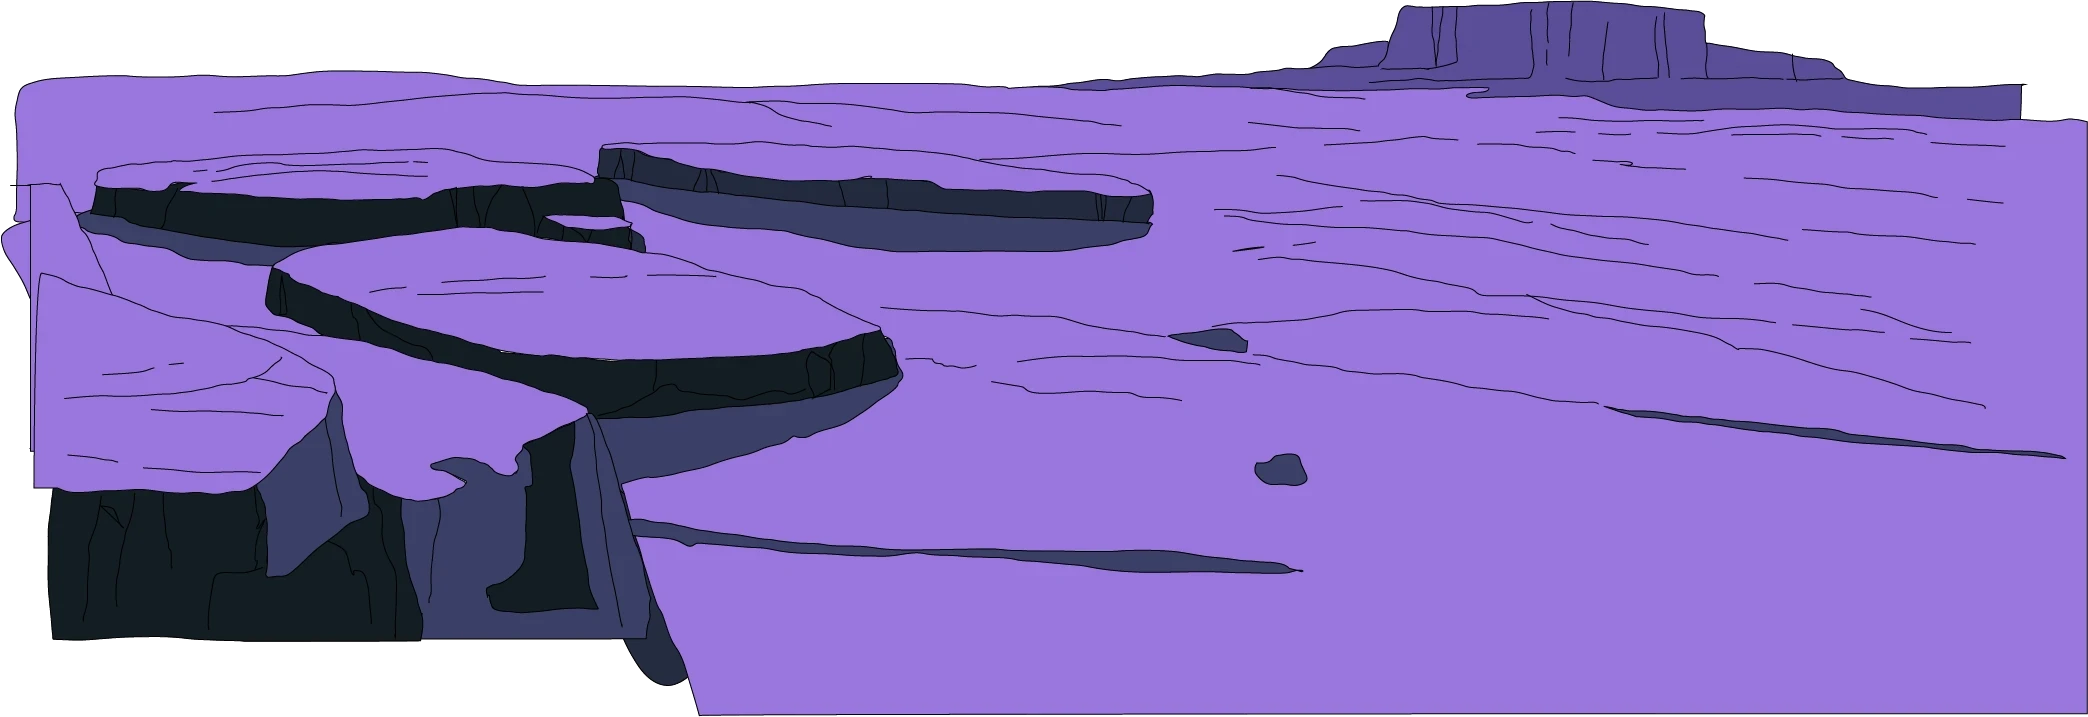
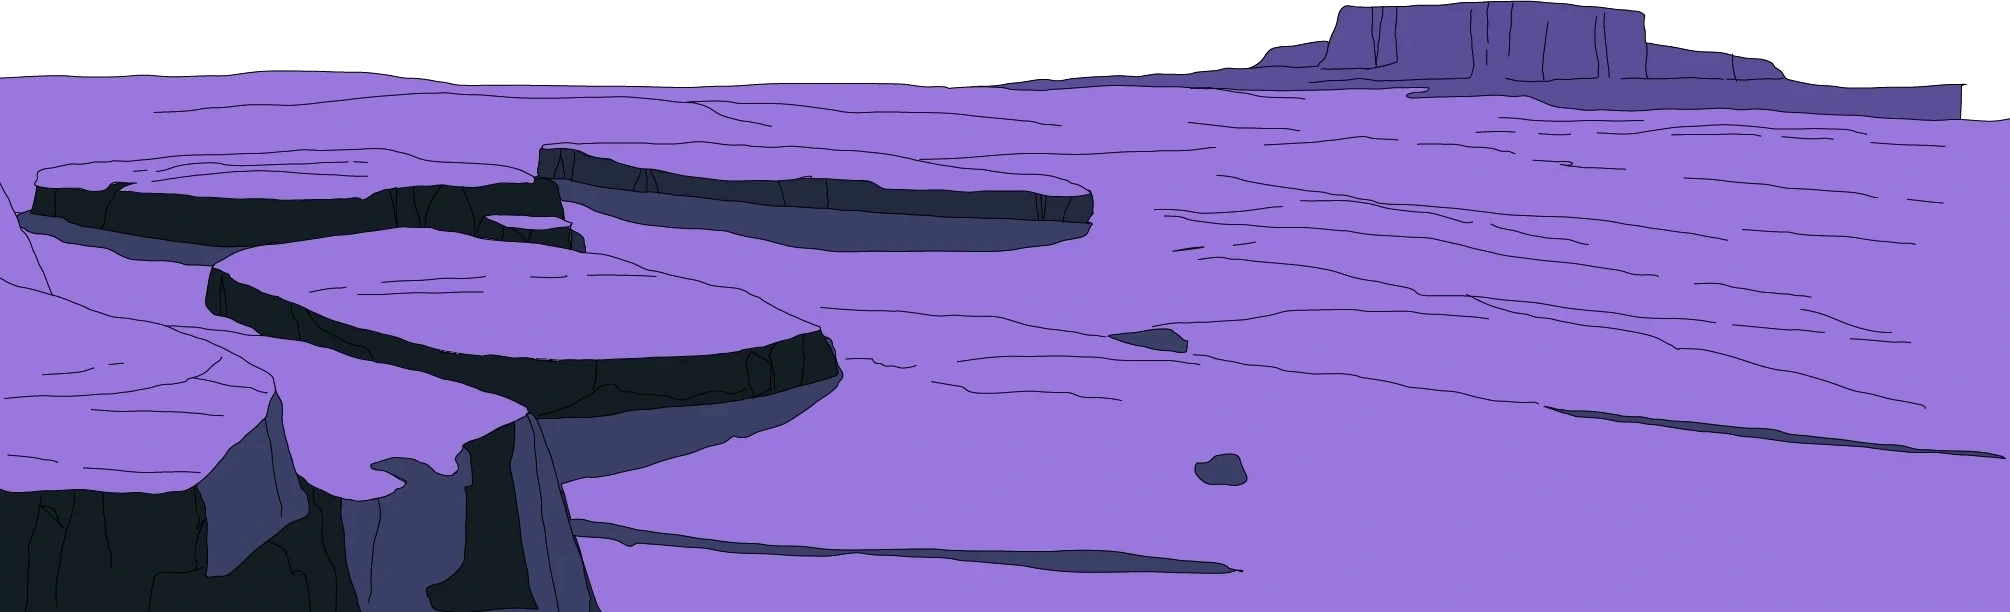
Smaller sun with a diffuse glow, floating rocks, Learn more buttons, more air between sections
- Sun disc is smaller, warm white, with a wide gaussian glow (brighter and wider on the mission)
- Rocks float with a visible bob
- Learn more buttons: arrow at rest, label unfolds and text rises on hover
- Scene to services: corners round only, no shrinking, no dimming
- More space between services, venture card, stories and testimonial
- Scrollbar hidden; contact card has no noise; contact floor bottom is finished

Claude-Session: https://claude.ai/code/session_01WyWtLkS7WfgVKMmiB4tAwe

diff --git a/assets/css/site.css b/assets/css/site.css
@@ -26,7 +26,9 @@
   --ease-io:cubic-bezier(.65,0,.35,1);
 }
 *{box-sizing:border-box;margin:0;padding:0}
-html{background:var(--bg)}
+html{background:var(--bg);scrollbar-width:none}
+html::-webkit-scrollbar,body::-webkit-scrollbar{display:none;width:0;height:0}
+body{-ms-overflow-style:none}
 body{font-family:"Geist",system-ui,sans-serif;font-weight:400;color:var(--text);background:var(--bg);-webkit-font-smoothing:antialiased;overflow-x:hidden}
 body.locked{overflow:hidden;height:100vh}
 a{color:inherit;text-decoration:none}
@@ -53,7 +55,17 @@ img{display:block;max-width:none;user-select:none;-webkit-user-drag:none}
 .btn.boxed .arr{width:30px;height:30px;border-radius:3px}
 .arrow-chip{width:30px;height:30px;display:grid;place-items:center;background:#fff;color:var(--ink);border-radius:2px;transition:transform .4s var(--ease),background .3s}
 .arrow-chip:hover{transform:translateX(4px);background:var(--lilac)}
-.arrow-chip svg,.btn .arr svg{width:16px;height:16px}
+.arrow-chip svg,.btn .arr svg,.more svg{width:16px;height:16px}
+.more{display:inline-flex;align-items:stretch;height:32px;color:var(--ink)}
+.more-arr{width:32px;display:grid;place-items:center;background:#fff;border-radius:2px;transition:background .25s}
+.more-lbl{width:0;margin-right:0;overflow:hidden;background:var(--lilac);border-radius:2px;display:flex;align-items:center;
+  clip-path:inset(55% 0 0 0);transition:width .45s var(--ease) .05s,margin .45s var(--ease) .05s,clip-path .35s var(--ease) .05s}
+.more-lbl span{display:block;padding:0 14px;white-space:nowrap;font-family:"Nohemi";font-weight:500;font-size:12px;letter-spacing:.12em;text-transform:uppercase;transform:translateY(120%);transition:transform .4s var(--ease) .12s}
+.more:hover .more-arr,.more:focus-visible .more-arr{background:var(--lilac)}
+.more:hover .more-lbl,.more:focus-visible .more-lbl{width:122px;margin-right:3px;clip-path:inset(0 0 0 0)}
+.more:hover .more-lbl span,.more:focus-visible .more-lbl span{transform:none}
+.more:not(:hover):not(:focus-visible) .more-lbl span{transition-delay:0s}
+.more:not(:hover):not(:focus-visible) .more-lbl{transition-delay:.12s}
 
 /* ---------- header ---------- */
 .nav{position:fixed;top:0;left:0;right:0;z-index:60;display:flex;align-items:center;justify-content:space-between;padding:23px 36px;pointer-events:none}
@@ -88,10 +100,10 @@ img{display:block;max-width:none;user-select:none;-webkit-user-drag:none}
 #sun3d{position:absolute;inset:0;width:100%;height:100%;pointer-events:none}
 /* design frame (2847×1618 reference), always covers the width, sits on the bottom edge */
 .frame{position:absolute;left:50%;bottom:0;width:max(100vw,175.96vh);aspect-ratio:2847/1618;transform:translateX(-50%)}
-.bob{animation:bob 7s ease-in-out infinite}
-.bob.b2{animation-duration:9s;animation-delay:-3s}
-.bob.b3{animation-duration:11s;animation-delay:-6s}
-@keyframes bob{0%,100%{transform:translateY(0) rotate(0)}50%{transform:translateY(-5%) rotate(1deg)}}
+.bob{animation:bob 6s ease-in-out infinite}
+.bob.b2{animation-duration:7.5s;animation-delay:-3s;animation-direction:reverse}
+.bob.b3{animation-duration:8.5s;animation-delay:-5s}
+@keyframes bob{0%,100%{transform:translate3d(0,0,0) rotate(0)}50%{transform:translate3d(0,-2.4vh,0) rotate(1.6deg)}}
 
 .hero-ui{position:absolute;inset:0;z-index:10;pointer-events:none}
 .hero-title{position:absolute;left:50%;top:41.3%;transform:translateX(-50%);width:min(980px,92vw);text-align:center;transition:opacity .7s var(--ease),transform 1.1s var(--ease)}
@@ -143,12 +155,11 @@ img{display:block;max-width:none;user-select:none;-webkit-user-drag:none}
 .card-art{position:relative}
 .card-art img{width:200px;height:auto}
 .card-art img.wide{width:96%}
-.card .arrow-chip,.card .arrow-chip:hover{transform:none;background:#fff;transition:none}
 .card-body p{padding:20px 10px 0;font-size:15px;line-height:1.4;min-height:110px}
-.card-body .arrow-chip{margin:20px 10px 10px}
+.card-body .more{margin:20px 10px 10px;align-self:flex-start}
 
 /* venture card with the 3D atom */
-.venture{padding-top:clamp(40px,4vw,56px)}
+.venture{padding-top:clamp(110px,11vw,170px)}
 .venture-card{position:relative;background:var(--panel);border-radius:22px;padding:50px 50px 46px;min-height:366px;display:grid;grid-template-columns:minmax(0,522px) 1fr;overflow:hidden;isolation:isolate}
 .venture-card > div{position:relative;z-index:1}
 .venture-card .body-l{margin-top:12px;max-width:522px}
@@ -156,7 +167,7 @@ img{display:block;max-width:none;user-select:none;-webkit-user-drag:none}
 #atom3d{position:absolute;right:-23%;top:0;width:60%;height:100%;pointer-events:none}
 
 /* success stories */
-.stories{padding-top:clamp(80px,8vw,120px)}
+.stories{padding-top:clamp(120px,12vw,180px)}
 .stories-head{display:flex;justify-content:space-between;gap:40px}
 .stories-head .body-l{max-width:381px}
 .stories-grid{display:grid;grid-template-columns:1fr 1fr;column-gap:clamp(24px,3vw,44px);row-gap:0;margin-top:clamp(40px,4.5vw,64px)}
@@ -170,10 +181,10 @@ img{display:block;max-width:none;user-select:none;-webkit-user-drag:none}
 .story-media .ly-full{inset:-10% 0;width:100%;height:120%;object-fit:cover}
 .story-media .ph{position:absolute;right:7%;top:50%;transform:translateY(-50%);font-family:"Nohemi";font-size:13px;letter-spacing:.18em;color:var(--faint);border:1px dashed var(--line);padding:16px 20px;border-radius:3px}
 .story p{margin-top:16px;font-size:15px;line-height:1.4;max-width:560px}
-.story .arrow-chip{margin-top:16px}
+.story .more{margin-top:16px}
 
 /* testimonial */
-.quote-wrap{margin-top:clamp(60px,6vw,90px);border-top:1px solid var(--line-soft);border-bottom:1px solid var(--line-soft)}
+.quote-wrap{margin-top:clamp(110px,11vw,170px);border-top:1px solid var(--line-soft);border-bottom:1px solid var(--line-soft)}
 .quote{max-width:1440px;margin:0 auto;display:grid;grid-template-columns:1fr 1fr;border-left:1px solid var(--line-soft);border-right:1px solid var(--line-soft);width:calc(100% - 2*var(--pad))}
 .quote > div{padding:110px 20px 108px;border-right:1px solid var(--line-soft)}
 .quote > div:last-child{border-right:0;position:relative;overflow:hidden}
@@ -184,14 +195,17 @@ img{display:block;max-width:none;user-select:none;-webkit-user-drag:none}
   repeating-linear-gradient(90deg,var(--line-soft) 0 1px,transparent 1px 48px),
   repeating-linear-gradient(0deg,var(--line-soft) 0 1px,transparent 1px 48px);opacity:.5;mask-image:radial-gradient(circle at 50% 50%,#000,transparent 70%)}
 .quote-art img{position:absolute;left:50%;top:50%;width:90px;transform:translate(-50%,-50%);opacity:.9}
-.stack-end{height:clamp(90px,8vw,120px)}
+.stack-end{height:clamp(110px,10vw,150px)}
 
 /* contact (revealed underneath the stack) */
 .contact{position:relative;z-index:2;margin-top:-28vh;padding-top:calc(28vh + 60px);overflow:hidden;
   background:linear-gradient(#252F4C 0%,#584C79 31.7%,#6F588E 49.8%,#A376C0 69.5%,#A376C0 100%)}
+.contact::before{content:"";position:absolute;inset:0;background:url("../img/grain.png") 0 0/200px 200px;opacity:.07;pointer-events:none;z-index:0}
 .contact-card{position:relative;z-index:1;width:min(812px,92vw);margin:0 auto;background:var(--panel);padding:40px 40px 150px}
 /* the canyon floor sits IN FRONT of the card: the card's bottom edge disappears behind the horizon */
-.contact-floor{position:relative;z-index:3;display:block;width:max(108vw,1540px);margin:-170px 0 -1px 50%;transform:translateX(-50%);pointer-events:none;will-change:transform}
+.contact-floor{position:relative;z-index:3;width:max(108vw,1540px);margin:-170px 0 -1px 50%;transform:translateX(-50%);pointer-events:none;will-change:transform}
+.contact-floor img{display:block;width:100%;height:auto}
+.contact-floor.noise::after{-webkit-mask:url("../img/contact-floor.webp") 0 0/100% 100% no-repeat;mask:url("../img/contact-floor.webp") 0 0/100% 100% no-repeat}
 .contact-card h2{margin-bottom:12px}
 .contact-card .lead{font-weight:300;font-size:15px}
 .contact-card .lead b{font-weight:600}

diff --git a/index.html b/index.html
@@ -94,7 +94,7 @@
         <div class="card-body">
           <div class="card-art noise"><img src="assets/img/card-marketing.webp" alt="Megaphone illustration"></div>
           <p>We help organizations explain what they're building, why it matters, and how it creates value.</p>
-          <a class="arrow-chip" href="#contact" data-jump aria-label="Ask about marketing and communications"><svg viewBox="0 0 16 16" fill="none" stroke="currentColor" stroke-width="1.6"><path d="M2 8h11M9 4l4 4-4 4"/></svg></a>
+          <a class="more" href="#contact" data-jump aria-label="Ask about marketing and communications"><span class="more-lbl"><span>Learn more</span></span><span class="more-arr"><svg viewBox="0 0 16 16" fill="none" stroke="currentColor" stroke-width="1.6"><path d="M2 8h11M9 4l4 4-4 4"/></svg></span></a>
         </div>
       </article>
       <article class="card fade" style="transition-delay:.12s">
@@ -102,7 +102,7 @@
         <div class="card-body">
           <div class="card-art noise"><img class="wide" src="assets/img/card-engineering.svg" alt="Cube illustration: code, AI network and interface wireframe"></div>
           <p>We design and build AI-enabled tools and digital solutions that you can use or sell.</p>
-          <a class="arrow-chip" href="#contact" data-jump aria-label="Ask about engineering and development"><svg viewBox="0 0 16 16" fill="none" stroke="currentColor" stroke-width="1.6"><path d="M2 8h11M9 4l4 4-4 4"/></svg></a>
+          <a class="more" href="#contact" data-jump aria-label="Ask about engineering and development"><span class="more-lbl"><span>Learn more</span></span><span class="more-arr"><svg viewBox="0 0 16 16" fill="none" stroke="currentColor" stroke-width="1.6"><path d="M2 8h11M9 4l4 4-4 4"/></svg></span></a>
         </div>
       </article>
       <article class="card fade" style="transition-delay:.24s">
@@ -110,7 +110,7 @@
         <div class="card-body">
           <div class="card-art noise"><img src="assets/img/card-gtm.webp" alt="Crystal in orbit illustration"></div>
           <p>We help organizations move ideas from concept to revenue generation by aligning strategy, funding, partnerships, and execution.</p>
-          <a class="arrow-chip" href="#contact" data-jump aria-label="Ask about go-to-market"><svg viewBox="0 0 16 16" fill="none" stroke="currentColor" stroke-width="1.6"><path d="M2 8h11M9 4l4 4-4 4"/></svg></a>
+          <a class="more" href="#contact" data-jump aria-label="Ask about go-to-market"><span class="more-lbl"><span>Learn more</span></span><span class="more-arr"><svg viewBox="0 0 16 16" fill="none" stroke="currentColor" stroke-width="1.6"><path d="M2 8h11M9 4l4 4-4 4"/></svg></span></a>
         </div>
       </article>
     </div>
@@ -139,7 +139,7 @@
           <img class="ly ly-full" data-speed="0.10" src="assets/img/story-smartusa-cleanroom.webp" alt="Scientist holding a wafer, with the SMART USA logo">
         </div>
         <p>Instrumental in winning the federal award behind SMART USA, a $1B total funding package.</p>
-        <a class="arrow-chip" href="#contact" data-jump aria-label="More about SMART USA"><svg viewBox="0 0 16 16" fill="none" stroke="currentColor" stroke-width="1.6"><path d="M2 8h11M9 4l4 4-4 4"/></svg></a>
+        <a class="more" href="#contact" data-jump aria-label="More about SMART USA"><span class="more-lbl"><span>Learn more</span></span><span class="more-arr"><svg viewBox="0 0 16 16" fill="none" stroke="currentColor" stroke-width="1.6"><path d="M2 8h11M9 4l4 4-4 4"/></svg></span></a>
       </article>
       <article class="story fade" style="transition-delay:.12s">
         <div class="story-media noise" data-parallax>
@@ -148,7 +148,7 @@
           <img class="ly ly-logo" data-speed="-0.10" src="assets/img/logo-cymanii.webp" alt="CyManII">
         </div>
         <p>Helped win and stand up a national cybersecurity institute, securing $80M in DOE funding and $200M+ in private investment.</p>
-        <a class="arrow-chip" href="#contact" data-jump aria-label="More about CyManII"><svg viewBox="0 0 16 16" fill="none" stroke="currentColor" stroke-width="1.6"><path d="M2 8h11M9 4l4 4-4 4"/></svg></a>
+        <a class="more" href="#contact" data-jump aria-label="More about CyManII"><span class="more-lbl"><span>Learn more</span></span><span class="more-arr"><svg viewBox="0 0 16 16" fill="none" stroke="currentColor" stroke-width="1.6"><path d="M2 8h11M9 4l4 4-4 4"/></svg></span></a>
       </article>
       <article class="story fade">
         <div class="story-media noise" data-parallax>
@@ -157,7 +157,7 @@
           <img class="ly ly-logo smart" data-speed="-0.10" src="assets/img/logo-smartusa.webp" alt="SMART USA">
         </div>
         <p>Ran a first-of-a-kind semiconductor national conference, bringing together 130+ organizations.</p>
-        <a class="arrow-chip" href="#contact" data-jump aria-label="More about the conference"><svg viewBox="0 0 16 16" fill="none" stroke="currentColor" stroke-width="1.6"><path d="M2 8h11M9 4l4 4-4 4"/></svg></a>
+        <a class="more" href="#contact" data-jump aria-label="More about the conference"><span class="more-lbl"><span>Learn more</span></span><span class="more-arr"><svg viewBox="0 0 16 16" fill="none" stroke="currentColor" stroke-width="1.6"><path d="M2 8h11M9 4l4 4-4 4"/></svg></span></a>
       </article>
       <article class="story fade" style="transition-delay:.12s">
         <div class="story-media noise" data-parallax>
@@ -166,7 +166,7 @@
           <span class="ly ph" data-speed="-0.10">LOGO</span>
         </div>
         <p>Built and led a public–private research center, securing $18M+ in sustained funding.</p>
-        <a class="arrow-chip" href="#contact" data-jump aria-label="More about the research center"><svg viewBox="0 0 16 16" fill="none" stroke="currentColor" stroke-width="1.6"><path d="M2 8h11M9 4l4 4-4 4"/></svg></a>
+        <a class="more" href="#contact" data-jump aria-label="More about the research center"><span class="more-lbl"><span>Learn more</span></span><span class="more-arr"><svg viewBox="0 0 16 16" fill="none" stroke="currentColor" stroke-width="1.6"><path d="M2 8h11M9 4l4 4-4 4"/></svg></span></a>
       </article>
     </div>
   </section>
@@ -184,7 +184,7 @@
 </main>
 
 <!-- ================= CONTACT (revealed beneath the stack) ================= -->
-<section class="contact noise" id="contact">
+<section class="contact" id="contact">
   <div class="contact-card">
     <h2 class="h-l split">Make Contact</h2>
     <p class="lead fade">Have a question or a project? <b>Leave us a message.</b></p>
@@ -202,7 +202,7 @@
       </div>
     </form>
   </div>
-  <img class="contact-floor" id="contactFloor" src="assets/img/contact-floor.webp" alt="">
+  <div class="contact-floor noise" id="contactFloor"><img src="assets/img/contact-floor.webp" alt=""></div>
 </section>
 
 <footer class="footer">

diff --git a/assets/js/three-scenes.js b/assets/js/three-scenes.js
@@ -42,29 +42,25 @@ function dysonSun() {
   const rim = new THREE.DirectionalLight('#9C86F0', 0.55); rim.position.set(-0.6, 1, 0.8); scene.add(rim);
   const anchor = new THREE.Group(); scene.add(anchor);        // position + scale only
   const root = new THREE.Group(); anchor.add(root);            // the sun + rings (tilts with the cursor)
-  const sunLight = new THREE.PointLight('#FFF1E6', 4.2, 0, 0); root.add(sunLight);
+  const sunLight = new THREE.PointLight('#FFF1E6', 3.6, 0, 0); root.add(sunLight);
 
-  // very soft glow that starts at the disc's edge, so the edge stays readable
-  const glow = new THREE.Mesh(new THREE.PlaneGeometry(2.6, 2.6), new THREE.ShaderMaterial({
+  // a small bright sun with a wide, very diffuse glow (no visible edge to the glow)
+  const SUN_R = 0.2;
+  const glowMat = new THREE.ShaderMaterial({
     transparent: true, depthWrite: false, depthTest: false,
-    uniforms: { uColor: { value: new THREE.Color('#E4DCFF') }, uIn: { value: 0.44 }, uOut: { value: 1.25 }, uA: { value: 0.16 } },
+    uniforms: { uColor: { value: new THREE.Color('#EFE6FF') }, uR: { value: SUN_R }, uSpread: { value: 0.55 }, uA: { value: 0.5 } },
     vertexShader: 'varying vec2 vP; void main(){ vP = position.xy; gl_Position = projectionMatrix * modelViewMatrix * vec4(position,1.0); }',
-    fragmentShader: 'uniform vec3 uColor; uniform float uIn, uOut, uA; varying vec2 vP; void main(){ float d = length(vP); if (d < uIn) discard; float t = clamp((d - uIn) / (uOut - uIn), 0.0, 1.0); gl_FragColor = vec4(uColor, uA * pow(1.0 - t, 2.2)); }'
-  }));
+    // gaussian falloff from the disc edge, plus a fade to zero well before the plane's border
+    fragmentShader: 'uniform vec3 uColor; uniform float uR, uSpread, uA; varying vec2 vP; void main(){ float d = max(length(vP) - uR, 0.0); float g = exp(-(d*d)/(uSpread*uSpread)) * 0.75 + exp(-d/(uSpread*0.35)) * 0.25; g *= 1.0 - smoothstep(2.2, 3.0, length(vP)); gl_FragColor = vec4(uColor, uA * g); }'
+  });
+  const glow = new THREE.Mesh(new THREE.PlaneGeometry(6.2, 6.2), glowMat);
   glow.renderOrder = -5; anchor.add(glow);
 
-  // the sun disc: flat fill + ink edge (it always faces the camera)
-  const SUN_R = 0.44;
-  const disc = new THREE.Mesh(new THREE.CircleGeometry(SUN_R, 96), new THREE.MeshBasicMaterial({ color: '#F6F0FF', toneMapped: false }));
+  // the sun disc: a clean warm-white circle, always facing the camera
+  const disc = new THREE.Mesh(new THREE.CircleGeometry(SUN_R, 96), new THREE.MeshBasicMaterial({ color: '#FFFBF2', toneMapped: false }));
   root.add(disc);
-  const discShade = new THREE.Mesh(new THREE.CircleGeometry(SUN_R, 96, -0.2, Math.PI * 0.9), new THREE.MeshBasicMaterial({ color: '#E2D9FB', toneMapped: false }));
-  discShade.position.z = 0.001; root.add(discShade);
-  const edgeGeo = new LineSegmentsGeometry(); edgeGeo.setPositions(circlePts(SUN_R, 128));
-  const edgeMat = new LineMaterial({ color: '#0B0326', linewidth: 2 });
-  const edge = new LineSegments2(edgeGeo, edgeMat); edge.position.z = 0.002; root.add(edge);
-  const lineMats = [edgeMat];
-  // keep the disc facing the camera even when the rings tilt
-  const faceCam = [disc, discShade, edge];
+  const lineMats = [];
+  const faceCam = [disc];
 
   const RINGS = [
     { r: 1.00, h: 0.10, tilt: 22, roll:   0, spin:  0.16, segs: 4 },
@@ -138,6 +134,9 @@ function dysonSun() {
     const grow = 0.55 + 0.45 * (1 - Math.pow(1 - e, 3));
     solid.scale.setScalar(grow); dotted.scale.setScalar(0.65 + 0.35 * (1 - Math.pow(1 - e, 3)));
     solidMat.opacity = 0.55 * e; dotMat.opacity = 0.9 * e;
+    // on the mission the glow gets a little brighter and spreads wider
+    glowMat.uniforms.uA.value = 0.5 + 0.18 * m;
+    glowMat.uniforms.uSpread.value = 0.55 + 0.3 * m;
     halos.visible = e > 0.001;
     if (!reduce) dotted.rotation.z -= dt * 0.12;
     renderer.render(scene, camera);

diff --git a/assets/js/site.js b/assets/js/site.js
@@ -193,10 +193,8 @@ const FORM_ENDPOINT = "";
       PF.sun.x = lerp(x0, x1, m) - mx * 0.15 * 46; PF.sun.y = lerp(y0, y1, m) - my * 0.15 * 28;
       PF.sun.r = lerp(r0, r1, m);
 
-      // the scene is cropped into a smaller rounded window as the stack slides over it
-      const ins = (Math.min(W, H) * 0.035 * p1).toFixed(1);
-      hero.style.clipPath = p1 > 0 ? `inset(${ins}px ${ins}px ${ins}px ${ins}px round ${(26 * p1).toFixed(1)}px)` : '';
-      shade.style.opacity = (0.45 * p1).toFixed(3);
+      // the scene keeps its size; only its corners round off as the stack slides over it
+      hero.style.clipPath = p1 > 0 ? `inset(0 round ${(28 * Math.min(1, p1 * 2.5)).toFixed(1)}px)` : '';
     }
 
     // the stack is cropped into a smaller rounded window as the contact section is revealed

diff --git a/README.md b/README.md
@@ -20,9 +20,9 @@ assets/vendor/                three.js (stored locally, no CDN)
 ## How the page flows
 1. **Intro:** a straight zoom out (no tilt). The headline words sharpen one by one, the header fades in, and the button grows from a dark pill.
 2. **Cursor:** every hero layer (sky, sun, rocks, canyon, astronaut) shifts by its depth. The astronaut sits behind the canyon.
-3. **Sun:** large, sitting in the bottom-right corner behind the canyon and rocks, with a very soft glow so its edge stays visible.
+3. **Sun:** a small bright disc with a wide, very diffuse glow, sitting in the bottom-right corner behind the canyon and floating rocks.
 4. **Begin your Mission:** hovering zooms in slightly. Clicking (or the first scroll) moves the camera up, the sun moves to the left, and two circles grow out of it (one dotted and spinning, one solid). A header and two lines appear on the right. Scrolling up from here returns to the landing.
-5. **Scroll:** the scene is cropped into a smaller rounded window while the services slide over it.
+5. **Scroll:** the services slide up over the scene; its corners round off, with no shrinking or dimming.
 6. **Venture card:** a hollow wireframe atom (three logo-style orbits with white dots), half visible on the right, follows the cursor.
 7. **Success stories:** each card's background, main image and logo move at different speeds.
 8. **Contact:** the main stack is cropped into a smaller rounded window, revealing the contact section. The canyon floor sits in front of the form card.
